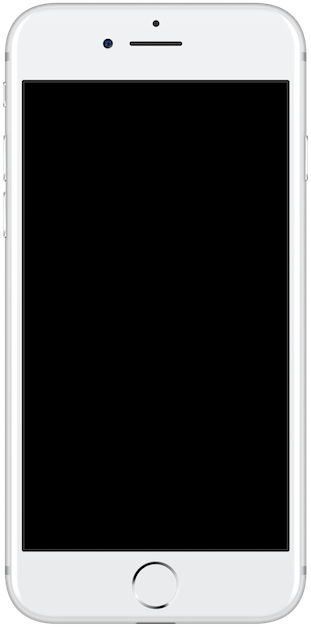
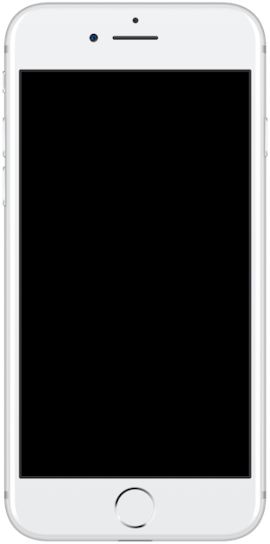
criando pagina inicial do projeto

Changed region(s): [[0.9185, 0.125, 0.9481, 0.875], [0.0593, 0.125, 0.0889, 0.875], [0.4741, 0.875, 0.5037, 0.9062]]

diff --git a/estilos/estilo.css b/estilos/estilo.css
@@ -1,0 +1,32 @@
+@charset "UTF-8";
+
+*{
+    margin: 0px;
+    padding: 0px;
+    font-family: Arial, Helvetica, sans-serif;
+}
+
+html, body{
+    height: 100vh;
+    width: 100vw;
+    background-color: black;
+}
+
+body{
+    background: url(../imagens/fundo-madeira.jpg) no-repeat top center;
+}
+
+main{
+    height: 100vh;
+    position: relative;
+}
+
+section#telefone{
+    position: absolute;
+    top: 50%;
+    left: 50%;
+    transform: translate(-50%, -50%);
+    height: 544px;
+    width: 270px;
+    background: url("../imagens/frame-iphone.png") no-repeat;
+}

diff --git a/index.html b/index.html
@@ -5,8 +5,16 @@
     <meta name="viewport" content="width=device-width, initial-scale=1.0">
     <link rel="shortcut icon" href="favicon.ico" type="image/x-icon">
     <title>Projeto Redes Sociais</title>
+    <link rel="stylesheet" href="estilos/estilo.css"> 
 </head>
 <body>
-    <h1>Olá mundo!</h1>
+    <main>
+        <section id="telefone">
+
+        </section>
+        <section id="redes_sociais">
+
+        </section>
+    </main>
 </body>
 </html>
